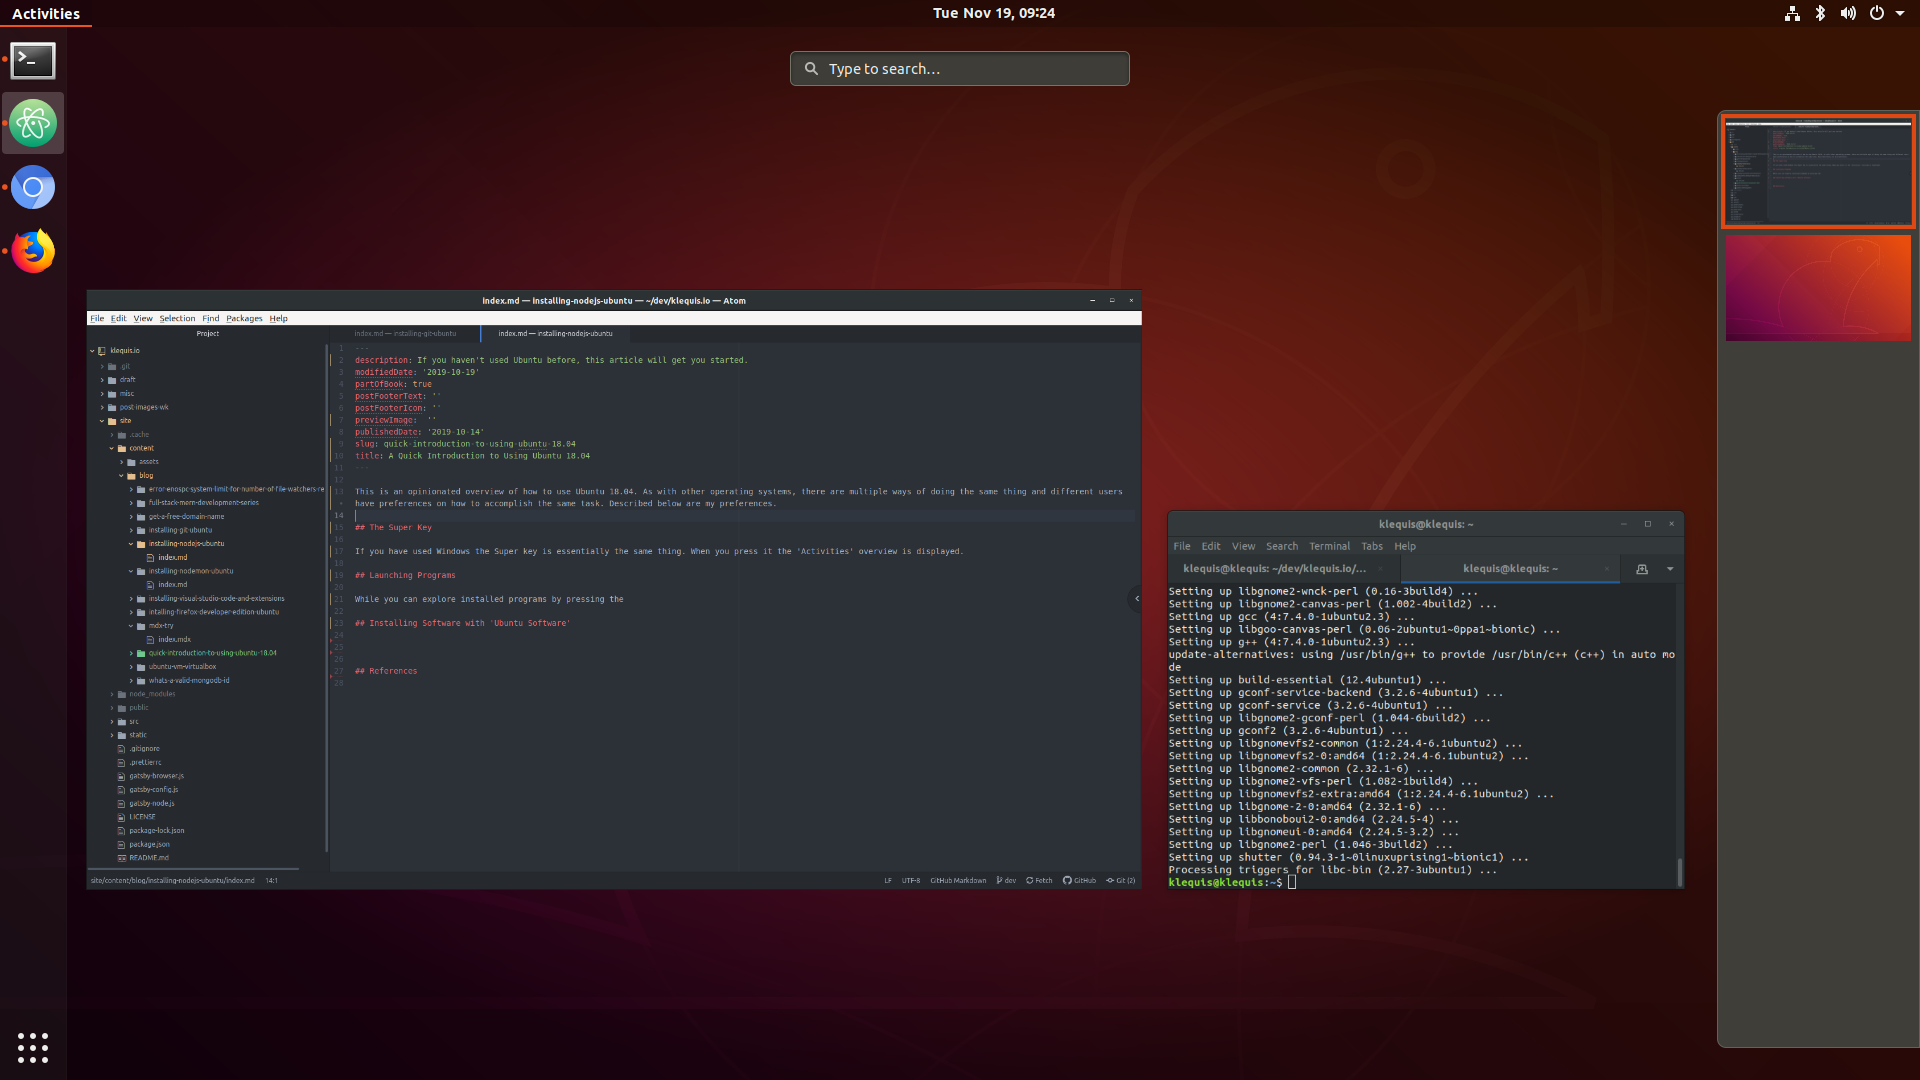
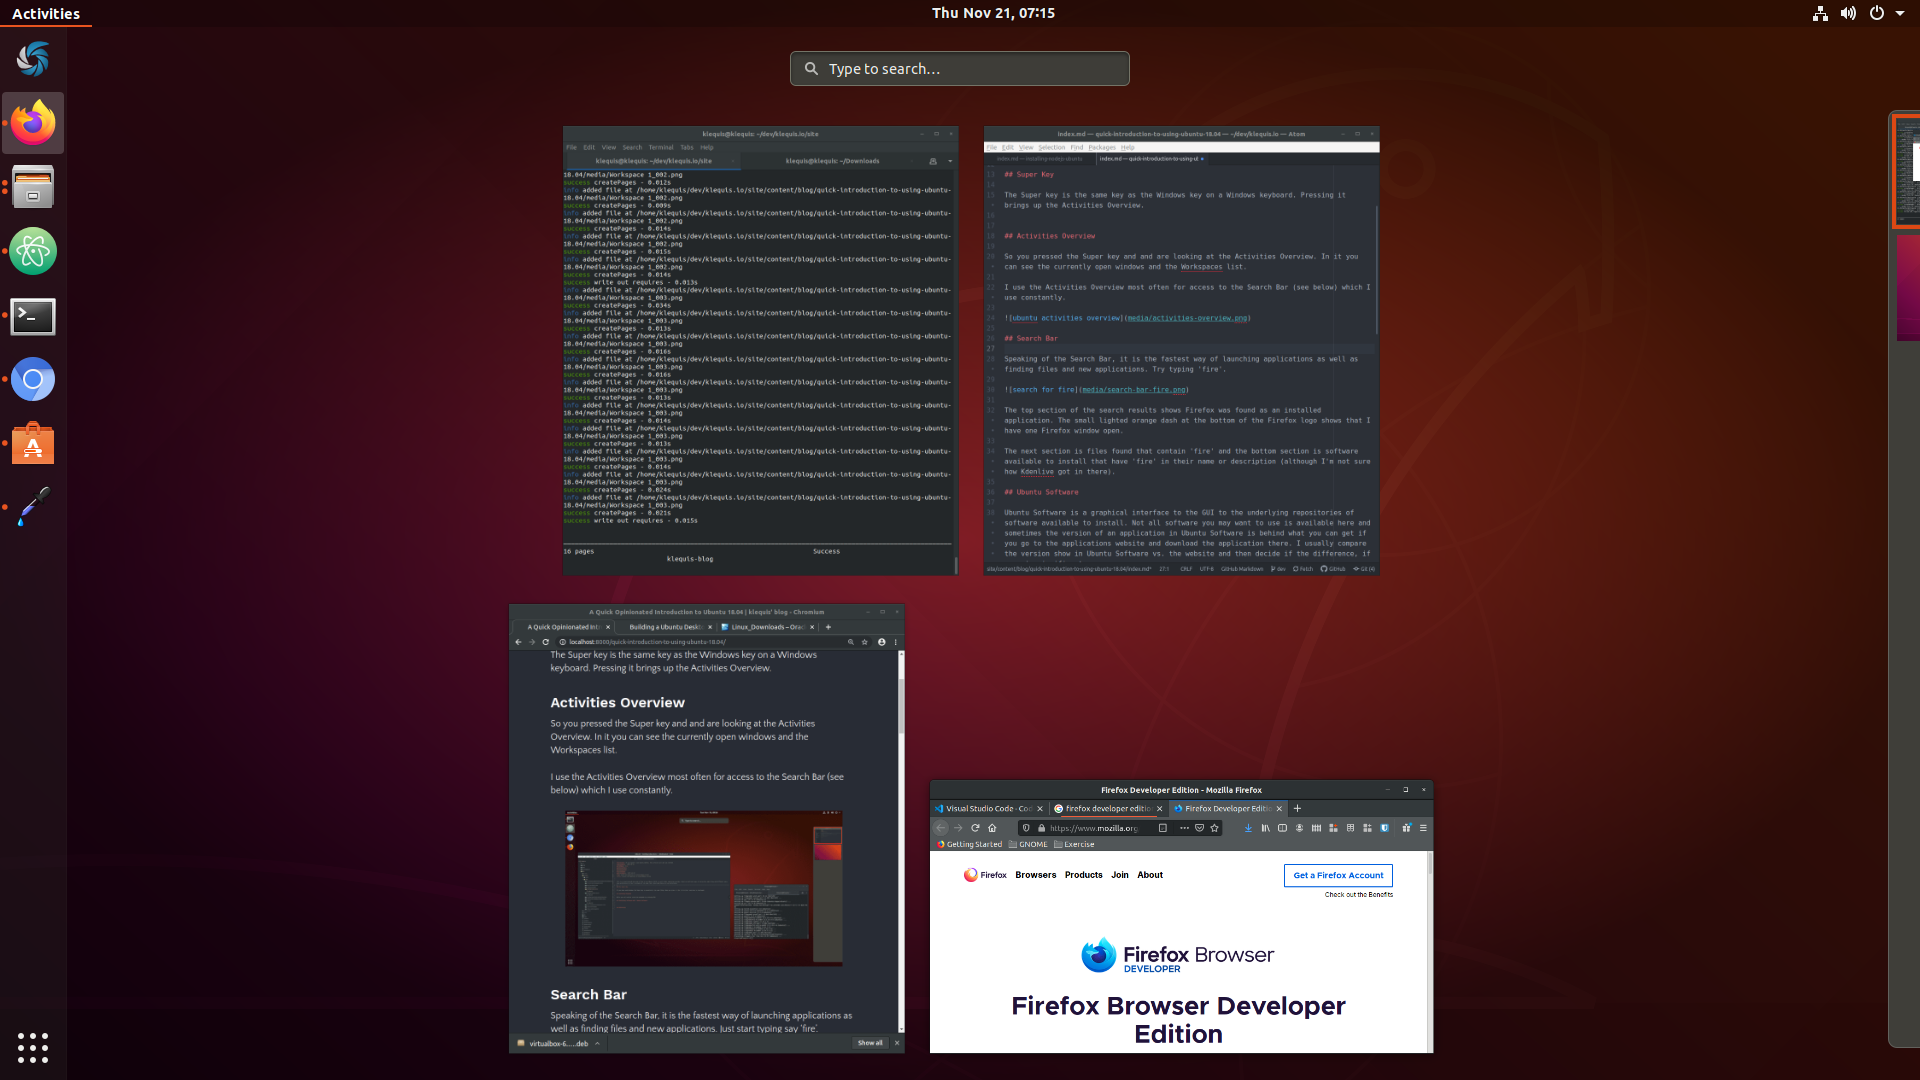
publish it

diff --git a/site/content/blog/quick-introduction-to-using-ubuntu-18.04/index.md b/site/content/blog/quick-introduction-to-using-ubuntu-18.04/index.md
@@ -1,14 +1,21 @@
 ---
-description: Installing Nodmon on Ubuntu is just one command.
+description: If you are brand-new to Ubuntu, here is a quick overview to get you started.
 modifiedDate: ''
-partOfBook: true
+partOfBook: false
 postFooterText: ''
 postFooterIcon: ''
 previewImage:
-publishedDate: '2019-10-30'
+publishedDate: '2019-11-23'
 slug: quick-introduction-to-using-ubuntu-18.04
 title: A Quick Opinionated Introduction to Ubuntu 18.04
 ---
+
+## A Couple of Definitions
+
+**Ubuntu:** is an [open source](https://en.wikipedia.org/wiki/Open_source) [Linux](https://en.wikipedia.org/wiki/Linux) based operating system. Its primary maintainer is [Canonical Ltd](https://canonical.com/).
+
+[**GNOME:**](https://www.gnome.org/) is an [open source](https://en.wikipedia.org/wiki/Open_source) [desktop environment](https://en.wikipedia.org/wiki/Desktop_environment) that is the default for Ubuntu.
+
 
 ## Super Key
 
@@ -17,15 +24,15 @@ The Super key is the same key as the Windows key on a Windows keyboard. Pressing
 
 ## Activities Overview
 
-So you pressed the Super key and and are looking at the Activities Overview. In it you can see the currently open windows and the Workspaces list (see below).
+So you pressed the Super key and and are looking at the Activities Overview. In it you can see the currently open windows and the Workspaces list.
 
-I use the Activities Overview for access to the Search Bar (see below) which I use constantly and the Workspaces List which I use occasionally.
+I use the Activities Overview most often for access to the Search Bar (see below) which I use constantly.
 
 ![ubuntu activities overview](media/activities-overview.png)
 
 ## Search Bar
 
-Speaking of the Search Bar, it is the fastest way of launching applications as well as finding ....   . Just start typing say 'fire'.
+Speaking of the Search Bar, it is the fastest way of launching applications as well as finding files and new applications. Try typing 'fire'.
 
 ![search for fire](media/search-bar-fire.png)
 
@@ -35,9 +42,9 @@ The next section is files found that contain 'fire' and the bottom section is so
 
 ## Ubuntu Software
 
-Ubuntu Software is a graphical interface to the GUI to the underlying repositories of software available to install. Not all software you may want to use is available here and sometimes the version of an application in Ubuntu Software is behind what you can get if you go to the applications website and download the application there. I usually compare the version show in Ubuntu Software vs. the website and then decide if the difference, if any, is significant.
+Ubuntu Software is a graphical interface to the underlying repositories of software available to install. Not all software you may want to use is available here and sometimes the version of an application in Ubuntu Software is behind what you can get if you go to the applications website and download the application there. I usually compare the version shown in Ubuntu Software vs. the website and then decide if the difference, if any, is significant.
 
-To search for an application in Ubuntu Software just start typing. In this image below I typed 'visual studio code'.
+To search for an application in Ubuntu Software just start typing. In the image below I typed 'visual studio code'.
 
 If you are not interested in the the details then just use the first one in the list. For those who are curious, let's dig-in a bit using Visual Studio Code as an example.
 
@@ -48,36 +55,84 @@ If you are not interested in the the details then just use the first one in the 
 - Interestingly, I get five matches.
   - 'epipolar-consistency' is there because 'visual studio' is in the description
   - 'Visual Studio Code - insiders' sounds like an early release version with some additional features. But I'm just guessing on that. Right or wrong, I don't want to install that one.
-  - There is also this odd one 'Visual Studio Code - OSS' which is a non-propriety version of Visual Studio Code which is not distributed by Microsoft.
+  - 'Visual Studio Code - OSS' which is a non-propriety version of Visual Studio Code which is not distributed by Microsoft.
   - Visual Studio Code itself is listed twice :(. The second one uses a different installation method called Flatpak.
 
 I'm not very interested in the different installation methods and only have a high level understanding of them. As long as I'm getting the most recent version of an application and everything works well I'm happy. Other people are quite passionate about this subject. If you are interested in learning more check out the links at the bottom of the page.
 
-
-## GNOME Tweaks
-
-![gnome tweaks](media/gnome-tweaks.png)
-
-
 ## The Dash
 
-The Dash appears on the left side of the primary monitor. You can add your favorite apps here and launch them, as well as see which apps are running and how many Windows open for each app.
+The Dash appears on the left side of the primary monitor. You can add your favorite apps here and launch them, as well as see which apps are running and how many Windows are open for each app.
 
 ![the dash](media/dash.png)
 
 Since I always launch application via the Search Bar, my preference for using the Dash is to remove all 'favorites' so it only shows running applications and the number of windows per application. I can't remember the last time I clicked on it.
 
-To remove apps favorite from the Dash right click on
+To add an application to Dash search for it then right-click on it and choose Add to Favorites. To remove an application right-click on it in Dash and choose Remove from Favorites.
 
 ## Workspaces List
 
 After pressing the Super key you will see on the right side of the screen the Workspaces list. Moving your mouse over the list makes it slide out a bit more.
 
-## Application Menu
+## Top Bar
 
-## System Menu
+The Top Bar runs along to the top of the primary monitor and contains four functional areas.
+
+### Activities
+
+The Activities button is on the left side of the top bar. If you were to click on it the Activities Overview would appear. Pressing Super does the same and is quicker and easier.
+
+![activities](media/activities.png)
+
+### Application Menu
+
+The Application menu is just to the right of the Activities button. It shows a number of application level functions. The functions included on the application menu differ for each application.
+
+**Application menu for Terminal**
+
+![application menu for terminal](media/application-menu-terminal.png)
+
+**Application menu for Atom**
+
+![application menu for atom](media/application-menu-atom.png)
+
+### Notifications Area
+
+The Notifications area is at the center of the top bar and displays the time and/or date depending on how it has been configured in Settings. Clicking on the Notification area shows the notifications and a calendar.
+
+![notifications and calendar](media/notifications-calendar.png)
+
+### System Menu
+
+The System menu is at the far right side of the top bar. I don't use it much except for logging off and restarting. Most of what is in the System menu is easier to get to via the search bar. For example, if you want to power-off your machine just type 'power' and the option to power-off will be presented.
+
+![system menu](media/system-menu.png)
 
 ## Alt-tab
+
+Alt-tab is your friend. Use it to switch between windows. One interesting thing is that applications with more than one window open show grouped as you can see below for 'Files'. I have a love-hate relationship with the grouping. On one hand, I often have many windows open and having them grouped makes it visually easier to see what is opened. On the other hand, getting to a window within a group is a bit of gymnastics for my fingers.
+
+![alt-tab](media/alt-tab.png)
+
+## Customization
+
+You can use Ubuntu 18.04 without customization but I have some preferences and Ubuntu allows me to to accommodate them. The two primary ways of customizing GNOME/Ubuntu are Settings and GNOME Tweaks.
+
+### Settings
+
+Settings is a mixture of settings and customizations. I would say turning Bluetooth on or off is a setting, but changing the desktop background is a customization. Settings does both but mostly 'settings'. Pick through the menus to see the possibilities.
+
+![settings > Dock](media/settings.png)
+
+### GNOME Tweaks
+
+With GNOME Tweaks you can significantly alter the appearance of GNOME. GNOME Tweaks is not installed by default. You can install it from Ubuntu Software or from the command line.
+
+```console
+sudo apt install gnome-tweaks
+```
+
+![gnome tweaks](media/tweaks.png)
 
 
 ## Links
